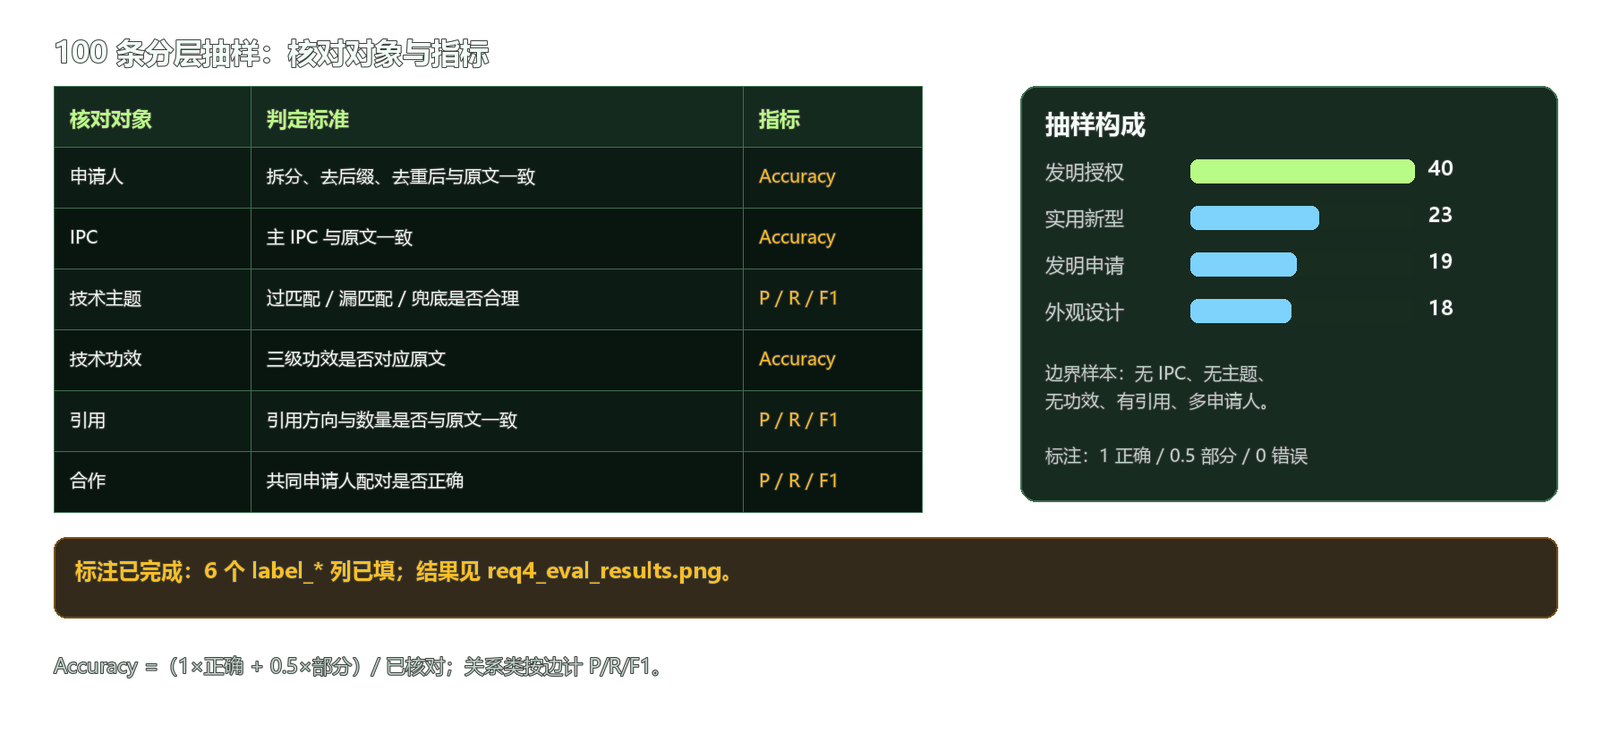
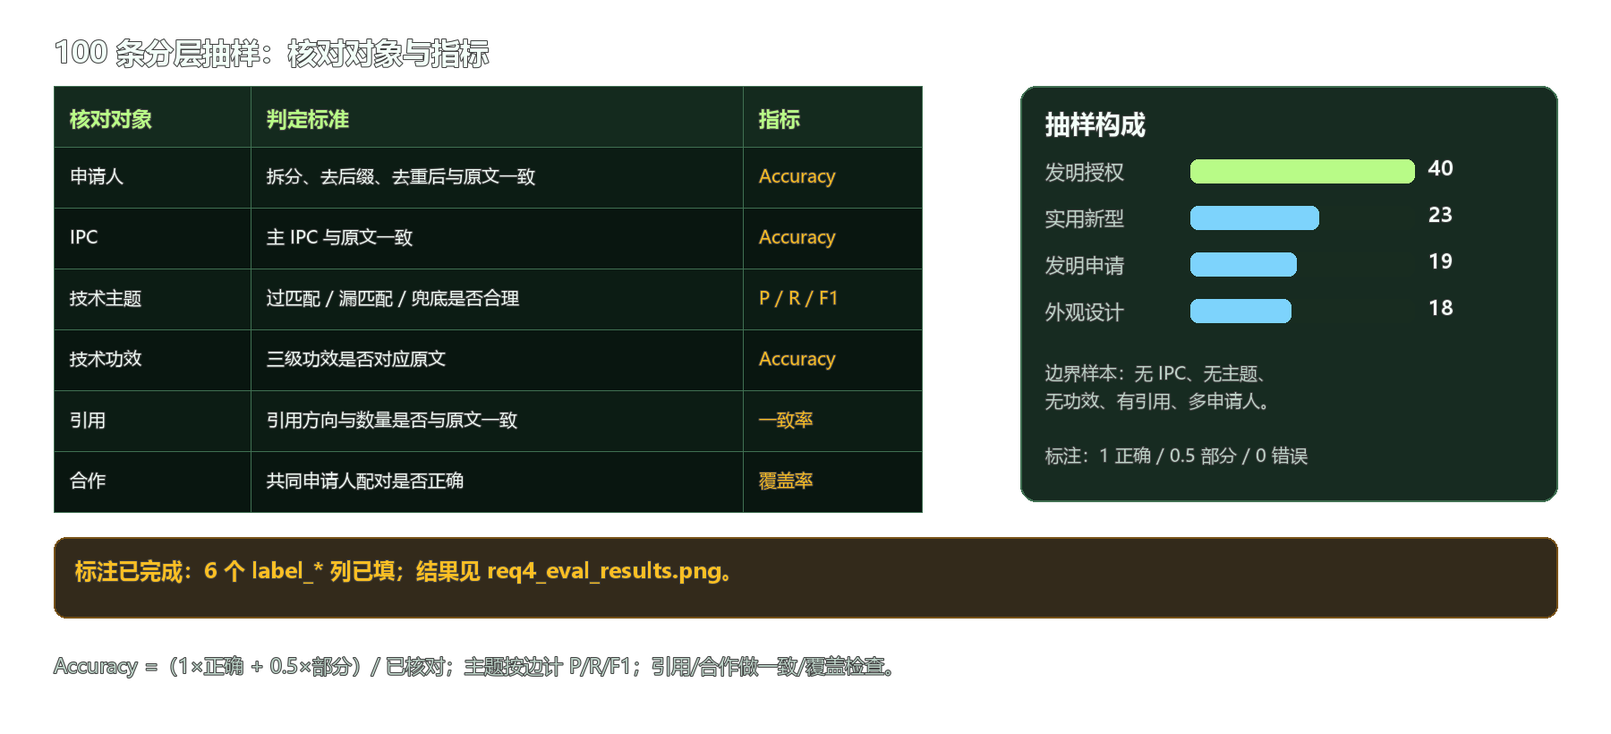
修改抽样

Changed region(s): [[0.28, 0.8841, 0.56, 0.9451], [0.4667, 0.6402, 0.5289, 0.6707], [0.4667, 0.5488, 0.5289, 0.5793]]

diff --git a/_tools/make_req_outline_images.py b/_tools/make_req_outline_images.py
@@ -411,7 +411,7 @@ def extraction_fusion():
 
 
 def eval_results():
-    W, H = 1800, 760
+    W, H = 1800, 800
     image = Image.new("RGBA", (W, H), (0, 0, 0, 0))
     draw = ImageDraw.Draw(image)
     text(draw, (60, 36), "100 条人工核对结果", 34, INK, bold=True)
@@ -421,7 +421,7 @@ def eval_results():
         ("申请人", 1.0, "100%"),
         ("IPC", 1.0, "100%"),
         ("技术功效", 1.0, "100%"),
-        ("引用", 1.0, "100%"),
+        ("引用（一致性）", 1.0, "100%"),
         ("合作（n=9）", 1.0, "100%"),
         ("技术主题", 0.675, "67.5%"),
     ]
@@ -454,13 +454,19 @@ def eval_results():
          "主要问题：兜底过粗、宽泛词误命中、\n空主题漏检；见 notes 列。",
          21, MUTED, spacing=7)
     text(draw, (1060, 500),
-         "引用边：418 / 418，P = R = F1 = 1.00",
+         "主题 P/R/F1（micro）= 61.1 / 61.7 / 61.4",
          22, GREEN, bold=True)
-    text(draw, (1060, 542),
-         "合作仅 9 条多申请人专利进入分母；\n91 条单申请人无共同申请对。",
-         21, MUTED, spacing=7)
+    text(draw, (1060, 540),
+         "领域 P/R/F1（micro）= 66.7 / 68.1 / 67.4",
+         22, GREEN, bold=True)
+    text(draw, (1060, 586),
+         "引用 418/418 一致；结构化字段\n只做一致性检查，不计算 P/R/F1。",
+         20, MUTED, spacing=6)
+    text(draw, (1060, 650),
+         "合作：9 条多申请人全部覆盖；\n91 条单申请人无共同申请对。",
+         20, MUTED, spacing=6)
 
-    text(draw, (60, 680),
+    text(draw, (60, 728),
          "结论：结构化字段抽样未发现错误；主题规则需继续补充词典与负向规则。",
          23, MUTED)
     save_pair(image, "req4_eval_results")
@@ -487,8 +493,8 @@ def eval_framework():
         ("IPC", "主 IPC 与原文一致", "Accuracy"),
         ("技术主题", "过匹配 / 漏匹配 / 兜底是否合理", "P / R / F1"),
         ("技术功效", "三级功效是否对应原文", "Accuracy"),
-        ("引用", "引用方向与数量是否与原文一致", "P / R / F1"),
-        ("合作", "共同申请人配对是否正确", "P / R / F1"),
+        ("引用", "引用方向与数量是否与原文一致", "一致率"),
+        ("合作", "共同申请人配对是否正确", "覆盖率"),
     ]
     y = table_y + row_h
     for i, (obj, rule, metric) in enumerate(rows):
@@ -521,7 +527,7 @@ def eval_framework():
          "标注已完成：6 个 label_* 列已填；结果见 req4_eval_results.png。",
          24, AMBER, bold=True)
     text(draw, (60, 728),
-         "Accuracy =（1×正确 + 0.5×部分）/ 已核对；关系类按边计 P/R/F1。",
+         "Accuracy =（1×正确 + 0.5×部分）/ 已核对；主题按边计 P/R/F1；引用/合作做一致/覆盖检查。",
          22, MUTED)
     save_pair(image, "req4_eval_framework")
 

diff --git a/交付给同伴的内容/P1-9_文档与交接/P1_PPT大纲.md b/交付给同伴的内容/P1-9_文档与交接/P1_PPT大纲.md
@@ -240,7 +240,7 @@
 
 ![人工核对结果](assets/req4_eval_results.png)
 
-> 图注：100 条分层抽样的字段准确率与技术主题标注分布。透明底版本：`assets/req4_eval_results_alpha.png`。
+> 图注：100 条分层抽样的字段准确率、技术主题标注分布与主题 P/R/F1。透明底版本：`assets/req4_eval_results_alpha.png`。
 
 抽样设计：
 
@@ -255,13 +255,15 @@
 | 申请人 | 100 | 100 | 0 | 0 | **100%** |
 | IPC | 100 | 100 | 0 | 0 | **100%** |
 | 技术功效 | 100 | 100 | 0 | 0 | **100%** |
-| 引用 | 100 | 100 | 0 | 0 | **100%** |
+| 引用（一致性） | 100 | 100 | 0 | 0 | **100%** |
 | 技术主题 | 100 | 50 | 35 | 15 | **67.5%** |
 | 合作 | 9（多申请人） | 9 | 0 | 0 | **100%** |
 
 需要说明的口径：
 
-- **引用边按边核对**：100 条专利共 418 条预测引用边、418 条原文引用边，命中 418 条；Precision = Recall = F1 = **1.00**。
+- **引用是结构化抽取**：100 条专利共 418 条预测引用边、418 条原文引用边，418 条完全一致。这里只做一致性检查，**不计算 P/R/F1**；否则会把“字段搬运”误当成模型预测。
+- **P/R/F1 用在技术主题**：预测主题集合与人工参考主题集合按边比较，micro 结果为 TP 66、FP 42、FN 41，**Precision 61.11% / Recall 61.68% / F1 61.40%**；技术领域 micro 为 **66.67% / 68.13% / 67.39%**。参考主题逐条记录在 `manual_sample_100_topic_eval.csv`。
+- **P/R/F1 与准确率不是同一口径**：P/R/F1 采用精确匹配，`（未细分）` 与细粒度主题不互相算对；`0.5` 的“部分正确”只用于准确率，不进入 P/R/F1。所以主题 F1 61.40% 低于按半分计的准确率 67.5%。
 - **合作字段分母是 9**：100 条中只有 9 条多申请人专利存在共同申请对；其余 91 条是单申请人，不进入合作准确率分母。`coop_partners` 是申请人网络伙伴集合，本项核对的是“本专利共同申请人是否被覆盖”。
 - **技术主题是主要误差来源**：100 条准确率 67.5%；剔除 18 条外观设计（无主题，按正确计）后，82 条非外观设计为 **60.4%**，其中完全正确 32 条、部分正确 35 条、错误 15 条。
 - **结构化字段 100% 的边界**：申请人、IPC、功效、引用、合作都由同一清洗/抽取链路直接生成，100 条抽样没有发现结构化错误；这不等于全量无错，也不能外推为主题抽取也准确。
@@ -277,7 +279,7 @@
 
 ## 讲稿（约 80 秒）
 
-> “第三页是知识抽取与融合。实体识别采用结构化字段加规则词典：专利、申请人、IPC 从原始字段直接映射；技术主题用 40 条关键词规则匹配标题、摘要和功效，最多取 3 个；技术领域按 IPC 部/大类映射。关系抽取覆盖 6 类关系：申请、引用、IPC、主题、领域和共同申请；引用先做 kind code 归一，只保留样本内引用方，外部被引不建占位节点。属性抽取保留专利的 10 个属性和功效的三级结构，源表没有的属性留空，不伪造。融合阶段做了 393 条展示层别名，覆盖 9,151 件专利，合并后 27,190 个企业主体；Kia 和 Hyundai 明确不合并，中国南方标为待核。最后是 100 条人工核对：申请人、IPC、功效、引用都是 100%，引用 418 条边按边核对 P、R、F1 都是 1.00；合作只在 9 条多申请人专利上核对，9 条全部覆盖；技术主题是主要误差来源，准确率 67.5%，剔除外观设计后非外观设计是 60.4%，主要问题是兜底过粗、宽泛词误命中和空主题漏检。这个结果说明结构化字段可靠，主题词典还需要继续补。
+> “第三页是知识抽取与融合。实体识别采用结构化字段加规则词典：专利、申请人、IPC 从原始字段直接映射；技术主题用 40 条关键词规则匹配标题、摘要和功效，最多取 3 个；技术领域按 IPC 部/大类映射。关系抽取覆盖 6 类关系：申请、引用、IPC、主题、领域和共同申请；引用先做 kind code 归一，只保留样本内引用方，外部被引不建占位节点。属性抽取保留专利的 10 个属性和功效的三级结构，源表没有的属性留空，不伪造。融合阶段做了 393 条展示层别名，覆盖 9,151 件专利，合并后 27,190 个企业主体；Kia 和 Hyundai 明确不合并，中国南方标为待核。最后是 100 条人工核对：申请人、IPC、功效、引用都是结构化字段，抽样 100% 一致，引用 418/418 条边一致；P/R/F1 只用于技术主题，精确匹配下 P 61.1%、R 61.7%、F1 61.4%，领域级 F1 67.4%；合作只在 9 条多申请人专利上核对，9 条全部覆盖；主题按半分计准确率 67.5%，非外观设计 60.4%，主要问题是兜底过粗、宽泛词误命中和空主题漏检。这个结果说明结构化字段可靠，主题词典还需要继续补。
 
 ---
 
@@ -317,7 +319,7 @@
 ## 已完成
 
 - **100 条人工标注与结果**：`交付给同伴的内容/P1-8_质量与别名/manual_sample_100.csv` 已填 6 个 `label_*` 列和 `notes`；结果见同目录 `manual_sample_100.md`，指标文件 `data/results/manual_sample_100_metrics.json`。
-- 结果：申请人、IPC、技术功效、引用均 100%；技术主题 67.5%（非外观设计 60.4%）；合作 9/9 多申请人专利覆盖；引用 418 条边 P/R/F1 = 1.00。
+- 结果：申请人、IPC、技术功效、引用均 100%；引用 418/418 条边一致（结构化，不计算 P/R/F1）；技术主题 P=61.11%、R=61.68%、F1=61.40%，领域 F1=67.39%；合作 9/9 多申请人专利覆盖。
 - 第 3 页已换成结果图 `assets/req4_eval_results.png`。
 
 ## 建议补（不影响主讲述）

diff --git a/docs/挑战与解决.md b/docs/挑战与解决.md
@@ -16,7 +16,7 @@
 | C7 | 页面开发要用样例，统计结论要用全量；两套数据容易混 | 页面可能把样例数字当全量，或指标版本不一致 | 样例与全量同名同列；`USE_SAMPLE` 切换；样例/全量结果目录隔离；`load_result` 校验 scope、行数、SHA-256 | 481 件样例；样例 366 家/295 行，全量 27,557 家/1,293 行；不静默回退 |
 | C8 | Neo4j Desktop 数据目录默认在 C 盘；旧图与新结构可能混用 | C 盘空间不足；重复建边；旧约束冲突 | 数据目录改到 `D:\Neo4jData`；导入前检查非空图，重建必须 `--reset`；先建 5 个约束、2 个索引；导入后逐项核对计数 | 147,174 节点 / 571,663 关系；计数与 parquet 一致 |
 | C9 | Schema 从 V1 到 V4 迭代，边属性、样本标记、别名表逐步加入 | 下游查询可能按旧结构写，导致返工 | 结构版本化；七张表与图结构同步；边属性 `is_first`/`is_main`/`weight`、节点属性 `is_in_sample` 写清；辅助表不混入核心结构 | 5 类节点、6 类关系；34/34 结构校验通过 |
-| C10 | 100 条人工核对没有现成标签，主题判断有主观性 | 无法直接报告准确率；容易只报好数字 | 分层抽样；`1/0.5/0` 三档；`notes` 写原因；字段级准确率；引用按边算 P/R/F1；合作只统计多申请人样本 | 100 条完成；主题 67.5%；引用 418 条边 P/R/F1=1.00；合作 9/9 |
+| C10 | 100 条人工核对没有现成标签，主题判断有主观性 | 无法直接报告准确率；容易只报好数字 | 分层抽样；`1/0.5/0` 三档；`notes` 写原因；字段级准确率；P/R/F1 用于技术主题；引用只做一致性检查；合作只统计多申请人样本 | 100 条完成；主题 67.5%；主题 P/R/F1=61.1/61.7/61.4；引用 418/418 一致；合作 9/9 |
 | C11 | 5 人并行开发，接口多、时间只有两天 | 容易出现“一个人等另一个人”的返工 | 垂直切片、单一所有权；先冻结表结构和读取接口；T0 交付样例数据；文档写清字段和边界 | P2/P3 可先用样例独立开发，不等全量图 |
 
 ## 二、逐项说明
@@ -80,7 +80,7 @@
 - 企业级引用另做 `company_citation_pairs.parquet`（135,007 个主体对），标明是“引用集合里出现过”的聚合，不是精确专利边。
 - 依赖分析加覆盖率标签；`C_A < 30` 时只展示数值，不做单点依赖判断。
 
-**结果**：图谱里的引用边可追溯、不掺假；依赖分析能用，但必须带“基于 X 件引用专利 / Y 个主体”的说明。这是“用辅助表管理不完整”，不是“把外部引用补全”。
+**结果**：图谱里的引用边可追溯、不掺假；依赖分析能用，但必须带“基于 X 件引用专利 / Y 个主体”的说明。这是“用辅助表管理不完整”，不是“把外部引用补全”。引用是结构化抽取，不做 P/R/F1；P/R/F1 放在技术主题上。
 
 ### C5 主题规则误差：把 `（未细分）` 单列，用 100 条量化
 
@@ -96,7 +96,7 @@
 - 100 条分层抽样逐条核对，`notes` 记录原因；错误类型分成“兜底过粗、宽泛词误命中、空主题漏检、部分正确”。
 - 没有为了追求指标重跑词典，避免破坏已交付的样例和图谱；把改进建议写进文档。
 
-**结果**：主题覆盖 82.35%；主题准确率 67.5%（非外观设计 60.4%）；错误类型可解释，后续可以按负向规则和词典继续改。
+**结果**：主题覆盖 82.35%；主题准确率 67.5%（非外观设计 60.4%）；主题 micro P/R/F1=61.11%/61.68%/61.40%，领域级 F1=67.39%；错误类型可解释，后续可以按负向规则和词典继续改。
 
 ### C6 企业别名：只做展示层，不硬并
 
@@ -170,10 +170,10 @@
 - 分层抽 100 条：发明授权 40、实用新型 23、发明申请 19、外观设计 18；覆盖无 IPC、无主题、无功效、有引用、多申请人。
 - 每条按 `1`（正确）、`0.5`（部分正确）、`0`（错误）标注，`notes` 写原因。
 - 字段级准确率按 `(1×正确 + 0.5×部分) / 已核对条数`。
-- 引用按边核对 P/R/F1；合作只统计 9 条多申请人专利，91 条单申请人无共同申请对，不进入分母。
+- 引用是结构化抽取，只做 418/418 一致性检查，不计算 P/R/F1；P/R/F1 用于技术主题（micro 与领域级）；合作只统计 9 条多申请人专利，91 条单申请人无共同申请对，不进入分母。
 - 明确说明：申请人、IPC、功效、引用、合作都由同一清洗/抽取链路直接生成，100% 只代表“抽样没发现结构化错误”，不代表全量无错，也不能外推为主题准确率。
 
-**结果**：申请人、IPC、功效、引用 100%；主题 67.5%（非外观设计 60.4%）；引用 418 条边 P/R/F1=1.00；合作 9/9。主题错误类型和改进方向写进 `manual_sample_100.md`。
+**结果**：申请人、IPC、功效、引用 100%；主题 67.5%（非外观设计 60.4%）；主题 P/R/F1=61.11%/61.68%/61.40%，领域级 F1=67.39%；引用 418/418 一致；合作 9/9。主题错误类型和改进方向写进 `manual_sample_100.md`。
 
 ### C11 5 人并行：先给框架，再各自开发
 

diff --git a/交付给同伴的内容/P1-9_文档与交接/挑战与解决.md b/交付给同伴的内容/P1-9_文档与交接/挑战与解决.md
@@ -16,7 +16,7 @@
 | C7 | 页面开发要用样例，统计结论要用全量；两套数据容易混 | 页面可能把样例数字当全量，或指标版本不一致 | 样例与全量同名同列；`USE_SAMPLE` 切换；样例/全量结果目录隔离；`load_result` 校验 scope、行数、SHA-256 | 481 件样例；样例 366 家/295 行，全量 27,557 家/1,293 行；不静默回退 |
 | C8 | Neo4j Desktop 数据目录默认在 C 盘；旧图与新结构可能混用 | C 盘空间不足；重复建边；旧约束冲突 | 数据目录改到 `D:\Neo4jData`；导入前检查非空图，重建必须 `--reset`；先建 5 个约束、2 个索引；导入后逐项核对计数 | 147,174 节点 / 571,663 关系；计数与 parquet 一致 |
 | C9 | Schema 从 V1 到 V4 迭代，边属性、样本标记、别名表逐步加入 | 下游查询可能按旧结构写，导致返工 | 结构版本化；七张表与图结构同步；边属性 `is_first`/`is_main`/`weight`、节点属性 `is_in_sample` 写清；辅助表不混入核心结构 | 5 类节点、6 类关系；34/34 结构校验通过 |
-| C10 | 100 条人工核对没有现成标签，主题判断有主观性 | 无法直接报告准确率；容易只报好数字 | 分层抽样；`1/0.5/0` 三档；`notes` 写原因；字段级准确率；引用按边算 P/R/F1；合作只统计多申请人样本 | 100 条完成；主题 67.5%；引用 418 条边 P/R/F1=1.00；合作 9/9 |
+| C10 | 100 条人工核对没有现成标签，主题判断有主观性 | 无法直接报告准确率；容易只报好数字 | 分层抽样；`1/0.5/0` 三档；`notes` 写原因；字段级准确率；P/R/F1 用于技术主题；引用只做一致性检查；合作只统计多申请人样本 | 100 条完成；主题 67.5%；主题 P/R/F1=61.1/61.7/61.4；引用 418/418 一致；合作 9/9 |
 | C11 | 5 人并行开发，接口多、时间只有两天 | 容易出现“一个人等另一个人”的返工 | 垂直切片、单一所有权；先冻结表结构和读取接口；T0 交付样例数据；文档写清字段和边界 | P2/P3 可先用样例独立开发，不等全量图 |
 
 ## 二、逐项说明
@@ -80,7 +80,7 @@
 - 企业级引用另做 `company_citation_pairs.parquet`（135,007 个主体对），标明是“引用集合里出现过”的聚合，不是精确专利边。
 - 依赖分析加覆盖率标签；`C_A < 30` 时只展示数值，不做单点依赖判断。
 
-**结果**：图谱里的引用边可追溯、不掺假；依赖分析能用，但必须带“基于 X 件引用专利 / Y 个主体”的说明。这是“用辅助表管理不完整”，不是“把外部引用补全”。
+**结果**：图谱里的引用边可追溯、不掺假；依赖分析能用，但必须带“基于 X 件引用专利 / Y 个主体”的说明。这是“用辅助表管理不完整”，不是“把外部引用补全”。引用是结构化抽取，不做 P/R/F1；P/R/F1 放在技术主题上。
 
 ### C5 主题规则误差：把 `（未细分）` 单列，用 100 条量化
 
@@ -96,7 +96,7 @@
 - 100 条分层抽样逐条核对，`notes` 记录原因；错误类型分成“兜底过粗、宽泛词误命中、空主题漏检、部分正确”。
 - 没有为了追求指标重跑词典，避免破坏已交付的样例和图谱；把改进建议写进文档。
 
-**结果**：主题覆盖 82.35%；主题准确率 67.5%（非外观设计 60.4%）；错误类型可解释，后续可以按负向规则和词典继续改。
+**结果**：主题覆盖 82.35%；主题准确率 67.5%（非外观设计 60.4%）；主题 micro P/R/F1=61.11%/61.68%/61.40%，领域级 F1=67.39%；错误类型可解释，后续可以按负向规则和词典继续改。
 
 ### C6 企业别名：只做展示层，不硬并
 
@@ -170,10 +170,10 @@
 - 分层抽 100 条：发明授权 40、实用新型 23、发明申请 19、外观设计 18；覆盖无 IPC、无主题、无功效、有引用、多申请人。
 - 每条按 `1`（正确）、`0.5`（部分正确）、`0`（错误）标注，`notes` 写原因。
 - 字段级准确率按 `(1×正确 + 0.5×部分) / 已核对条数`。
-- 引用按边核对 P/R/F1；合作只统计 9 条多申请人专利，91 条单申请人无共同申请对，不进入分母。
+- 引用是结构化抽取，只做 418/418 一致性检查，不计算 P/R/F1；P/R/F1 用于技术主题（micro 与领域级）；合作只统计 9 条多申请人专利，91 条单申请人无共同申请对，不进入分母。
 - 明确说明：申请人、IPC、功效、引用、合作都由同一清洗/抽取链路直接生成，100% 只代表“抽样没发现结构化错误”，不代表全量无错，也不能外推为主题准确率。
 
-**结果**：申请人、IPC、功效、引用 100%；主题 67.5%（非外观设计 60.4%）；引用 418 条边 P/R/F1=1.00；合作 9/9。主题错误类型和改进方向写进 `manual_sample_100.md`。
+**结果**：申请人、IPC、功效、引用 100%；主题 67.5%（非外观设计 60.4%）；主题 P/R/F1=61.11%/61.68%/61.40%，领域级 F1=67.39%；引用 418/418 一致；合作 9/9。主题错误类型和改进方向写进 `manual_sample_100.md`。
 
 ### C11 5 人并行：先给框架，再各自开发
 

diff --git a/data/results/manual_sample_100.md b/data/results/manual_sample_100.md
@@ -2,7 +2,7 @@
 
 生成时间：2026-11-25；标注完成：2026-11-26
 文件：`manual_sample_100.csv`；随机种子 `20261125`。
-指标文件：`data/results/manual_sample_100_metrics.json`。
+指标文件：`data/results/manual_sample_100_metrics.json`；主题参考集合：`manual_sample_100_topic_eval.csv`。
 
 ## 1. 抽样
 
@@ -38,13 +38,22 @@
 | 申请人 | 100 | 100 | 0 | 0 | **100%** |
 | IPC | 100 | 100 | 0 | 0 | **100%** |
 | 技术功效 | 100 | 100 | 0 | 0 | **100%** |
-| 引用 | 100 | 100 | 0 | 0 | **100%** |
+| 引用（一致性） | 100 | 100 | 0 | 0 | **100%** |
 | 技术主题 | 100 | 50 | 35 | 15 | **67.5%** |
 | 合作 | 9（多申请人） | 9 | 0 | 0 | **100%** |
 
-补充说明：
+指标口径：
 
-- **引用边按边核对**：100 条专利共 418 条预测引用边、418 条原文引用边，命中 418 条；Precision = Recall = F1 = **1.00**。
+- **引用是结构化抽取**：100 条专利共 418 条预测引用边、418 条原文引用边，418 条完全一致。这里只做一致性检查，**不计算 P/R/F1**；否则会把“字段搬运”误当成模型预测。
+- **P/R/F1 用在技术主题**：把每条专利的预测主题集合与人工参考主题集合按边比较，得到 micro P/R/F1：
+
+| 层级 | TP | FP | FN | Precision | Recall | F1 |
+|---|---:|---:|---:|---:|---:|---:|
+| 技术主题（micro） | 66 | 42 | 41 | **61.11%** | **61.68%** | **61.40%** |
+| 技术领域（micro） | 62 | 31 | 29 | **66.67%** | **68.13%** | **67.39%** |
+
+- 参考主题集合逐条记录在 `manual_sample_100_topic_eval.csv`，字段为 `predicted_topics` / `reference_topics` / `tp` / `fp` / `fn`；技术领域由 `topic_quality.csv` 的 topic→domain 映射得到。micro 指把所有专利的主题边合并后统计，不是逐条平均。
+- P/R/F1 采用**精确匹配**：`（未细分）` 与细粒度主题不互相算对；`0.5` 的“部分正确”只用于准确率，不进入 P/R/F1。因此 F1 61.40% 低于按半分计的准确率 67.5%，两者不是同一个口径。
 - **合作字段分母为 9**：100 条中只有 9 条多申请人专利存在共同申请对；其余 91 条为单申请人，无共同申请对，不进入合作准确率分母。`coop_partners` 是申请人网络伙伴集合，用于检查本专利共同申请人是否被覆盖，不是单专利的共同申请人集合。
 - **技术主题准确率**：100 条为 67.5%；剔除 18 条外观设计（无主题，按正确计）后，82 条非外观设计为 **60.4%**，其中完全正确 32 条、部分正确 35 条、错误 15 条。
 - **结构化字段 100% 的边界**：申请人、IPC、功效、引用、合作都是由同一清洗/抽取链路直接生成，100 条抽样没有发现结构化错误；这不等于全量无错，也不能外推为“主题抽取也准确”。

diff --git a/交付给同伴的内容/P1-8_质量与别名/manual_sample_100.md b/交付给同伴的内容/P1-8_质量与别名/manual_sample_100.md
@@ -2,7 +2,7 @@
 
 生成时间：2026-11-25；标注完成：2026-11-26
 文件：`manual_sample_100.csv`；随机种子 `20261125`。
-指标文件：`data/results/manual_sample_100_metrics.json`。
+指标文件：`data/results/manual_sample_100_metrics.json`；主题参考集合：`manual_sample_100_topic_eval.csv`。
 
 ## 1. 抽样
 
@@ -38,13 +38,22 @@
 | 申请人 | 100 | 100 | 0 | 0 | **100%** |
 | IPC | 100 | 100 | 0 | 0 | **100%** |
 | 技术功效 | 100 | 100 | 0 | 0 | **100%** |
-| 引用 | 100 | 100 | 0 | 0 | **100%** |
+| 引用（一致性） | 100 | 100 | 0 | 0 | **100%** |
 | 技术主题 | 100 | 50 | 35 | 15 | **67.5%** |
 | 合作 | 9（多申请人） | 9 | 0 | 0 | **100%** |
 
-补充说明：
+指标口径：
 
-- **引用边按边核对**：100 条专利共 418 条预测引用边、418 条原文引用边，命中 418 条；Precision = Recall = F1 = **1.00**。
+- **引用是结构化抽取**：100 条专利共 418 条预测引用边、418 条原文引用边，418 条完全一致。这里只做一致性检查，**不计算 P/R/F1**；否则会把“字段搬运”误当成模型预测。
+- **P/R/F1 用在技术主题**：把每条专利的预测主题集合与人工参考主题集合按边比较，得到 micro P/R/F1：
+
+| 层级 | TP | FP | FN | Precision | Recall | F1 |
+|---|---:|---:|---:|---:|---:|---:|
+| 技术主题（micro） | 66 | 42 | 41 | **61.11%** | **61.68%** | **61.40%** |
+| 技术领域（micro） | 62 | 31 | 29 | **66.67%** | **68.13%** | **67.39%** |
+
+- 参考主题集合逐条记录在 `manual_sample_100_topic_eval.csv`，字段为 `predicted_topics` / `reference_topics` / `tp` / `fp` / `fn`；技术领域由 `topic_quality.csv` 的 topic→domain 映射得到。micro 指把所有专利的主题边合并后统计，不是逐条平均。
+- P/R/F1 采用**精确匹配**：`（未细分）` 与细粒度主题不互相算对；`0.5` 的“部分正确”只用于准确率，不进入 P/R/F1。因此 F1 61.40% 低于按半分计的准确率 67.5%，两者不是同一个口径。
 - **合作字段分母为 9**：100 条中只有 9 条多申请人专利存在共同申请对；其余 91 条为单申请人，无共同申请对，不进入合作准确率分母。`coop_partners` 是申请人网络伙伴集合，用于检查本专利共同申请人是否被覆盖，不是单专利的共同申请人集合。
 - **技术主题准确率**：100 条为 67.5%；剔除 18 条外观设计（无主题，按正确计）后，82 条非外观设计为 **60.4%**，其中完全正确 32 条、部分正确 35 条、错误 15 条。
 - **结构化字段 100% 的边界**：申请人、IPC、功效、引用、合作都是由同一清洗/抽取链路直接生成，100 条抽样没有发现结构化错误；这不等于全量无错，也不能外推为“主题抽取也准确”。

diff --git a/docs/handoff.md b/docs/handoff.md
@@ -65,6 +65,7 @@ rows = run_query("MATCH (p:Patent) RETURN count(p) AS n")
 | `company_citation_summary.json` | — | H1 覆盖、Top 主体对 |
 | `manual_sample_100.csv` | 100 行 | 人工抽样核对结果；标签已填 |
 | `manual_sample_100.md` | — | 抽样、标注结果与 P/R/F1 说明 |
+| `manual_sample_100_topic_eval.csv` | 100 行 | 主题预测/参考集合、TP/FP/FN 与逐条 P/R/F1 |
 | `topic_quality.csv` | 50 主题 | 主题计数、`（未细分）` 标记 |
 | `company_metrics.parquet` | 样例 366 / 全量 27,557 行 | P2/P3 预计算企业指标；`load_result` 读取 |
 | `topic_year.parquet` | 样例 295 / 全量 1,293 行 | 主题×年度计数；P2 页面一、P3 趋势 |
@@ -123,7 +124,7 @@ rows = run_query("MATCH (p:Patent) RETURN count(p) AS n")
 
 - 结构校验：`data/results/contract_check.json`，34/34 通过；8 个数据缺失警告。
 - 规模/质量：`data/results/scale.json`、`data_quality.json`。
-- 抽样：`manual_sample_100.csv` 100 条，标签列 `label_*` 已填；按 `manual_sample_100.md` 直接引用准确率与 P/R/F1 结果，不重复计算。
+- 抽样：`manual_sample_100.csv` 100 条，标签列 `label_*` 已填；直接采用 `manual_sample_100.md` 的准确率与主题 P/R/F1 结果，不重复计算。
 - 别名：`company_alias.csv` + `alias_summary.json`；H1：`company_citation_pairs.parquet` + `company_citation_summary.json`。
 - 主题：`topic_quality.csv`；`（未细分）` 单列。
 - 一致性：`eval.check_contracts`、`eval.smoke_test` 均可复跑。

diff --git a/交付给同伴的内容/P1-9_文档与交接/handoff.md b/交付给同伴的内容/P1-9_文档与交接/handoff.md
@@ -65,6 +65,7 @@ rows = run_query("MATCH (p:Patent) RETURN count(p) AS n")
 | `company_citation_summary.json` | — | H1 覆盖、Top 主体对 |
 | `manual_sample_100.csv` | 100 行 | 人工抽样核对结果；标签已填 |
 | `manual_sample_100.md` | — | 抽样、标注结果与 P/R/F1 说明 |
+| `manual_sample_100_topic_eval.csv` | 100 行 | 主题预测/参考集合、TP/FP/FN 与逐条 P/R/F1 |
 | `topic_quality.csv` | 50 主题 | 主题计数、`（未细分）` 标记 |
 | `company_metrics.parquet` | 样例 366 / 全量 27,557 行 | P2/P3 预计算企业指标；`load_result` 读取 |
 | `topic_year.parquet` | 样例 295 / 全量 1,293 行 | 主题×年度计数；P2 页面一、P3 趋势 |
@@ -123,7 +124,7 @@ rows = run_query("MATCH (p:Patent) RETURN count(p) AS n")
 
 - 结构校验：`data/results/contract_check.json`，34/34 通过；8 个数据缺失警告。
 - 规模/质量：`data/results/scale.json`、`data_quality.json`。
-- 抽样：`manual_sample_100.csv` 100 条，标签列 `label_*` 已填；按 `manual_sample_100.md` 直接引用准确率与 P/R/F1 结果，不重复计算。
+- 抽样：`manual_sample_100.csv` 100 条，标签列 `label_*` 已填；直接采用 `manual_sample_100.md` 的准确率与主题 P/R/F1 结果，不重复计算。
 - 别名：`company_alias.csv` + `alias_summary.json`；H1：`company_citation_pairs.parquet` + `company_citation_summary.json`。
 - 主题：`topic_quality.csv`；`（未细分）` 单列。
 - 一致性：`eval.check_contracts`、`eval.smoke_test` 均可复跑。

diff --git a/docs/data_profile.md b/docs/data_profile.md
@@ -210,5 +210,5 @@
 - 人工抽样：`manual_sample_100.csv` 100 条，类型 发明授权 40、实用新型 23、发明申请 19、外观设计 18；标签已填，结果见 `manual_sample_100.md`。
 - 预计算指标：`company_metrics` 样例 366 家、全量 27,557 家；`topic_year` 样例 295 行、全量 1,293 行；两份 `metrics_manifest.json` 分别标 `scope=sample/full`，`load_result` 校验行数与 SHA-256。
 - 16 批次：`source_files` 行数见 `data_quality.json`；1,008 行样本显示 14 个批次全为“授权”、2 个批次全为“驳回”，说明批次按法律状态分层导出，不是随机全量。
-- 限制：别名不是完整实体消解；企业级引用是聚合不是精确边；主题宽泛词未重跑词典；100 条抽样待人工 P/R/F1。
+- 限制：别名不是完整实体消解；企业级引用是聚合不是精确边；主题宽泛词未重跑词典；100 条抽样已完成，主题 P/R/F1=61.11%/61.68%/61.40%，领域级 F1=67.39%；引用只做一致性检查。
 - 输出：`data/results/scale.json`、`data_quality.json`、`company_alias.csv`、`cooperation_merged.parquet`、`company_patent_counts.csv`、`company_citation_pairs.parquet`、`manual_sample_100.csv`、`topic_quality.csv`；副本在 `交付给同伴的内容/P1-8_质量与别名/`。

diff --git a/交付给同伴的内容/P1-9_文档与交接/data_profile.md b/交付给同伴的内容/P1-9_文档与交接/data_profile.md
@@ -210,5 +210,5 @@
 - 人工抽样：`manual_sample_100.csv` 100 条，类型 发明授权 40、实用新型 23、发明申请 19、外观设计 18；标签已填，结果见 `manual_sample_100.md`。
 - 预计算指标：`company_metrics` 样例 366 家、全量 27,557 家；`topic_year` 样例 295 行、全量 1,293 行；两份 `metrics_manifest.json` 分别标 `scope=sample/full`，`load_result` 校验行数与 SHA-256。
 - 16 批次：`source_files` 行数见 `data_quality.json`；1,008 行样本显示 14 个批次全为“授权”、2 个批次全为“驳回”，说明批次按法律状态分层导出，不是随机全量。
-- 限制：别名不是完整实体消解；企业级引用是聚合不是精确边；主题宽泛词未重跑词典；100 条抽样待人工 P/R/F1。
+- 限制：别名不是完整实体消解；企业级引用是聚合不是精确边；主题宽泛词未重跑词典；100 条抽样已完成，主题 P/R/F1=61.11%/61.68%/61.40%，领域级 F1=67.39%；引用只做一致性检查。
 - 输出：`data/results/scale.json`、`data_quality.json`、`company_alias.csv`、`cooperation_merged.parquet`、`company_patent_counts.csv`、`company_citation_pairs.parquet`、`manual_sample_100.csv`、`topic_quality.csv`；副本在 `交付给同伴的内容/P1-8_质量与别名/`。

diff --git a/交付给同伴的内容/P1-8_质量与别名/说明.md b/交付给同伴的内容/P1-8_质量与别名/说明.md
@@ -13,6 +13,7 @@
 | `company_citation_summary.json` | H1 覆盖与 Top 企业对 |
 | `manual_sample_100.csv` | 100 条分层抽样核对结果，标签已填 |
 | `manual_sample_100.md` | 抽样、标注结果与 P/R/F1 说明 |
+| `manual_sample_100_topic_eval.csv` | 100 条主题预测/参考集合、TP/FP/FN 与逐条 P/R/F1 |
 | `topic_quality.csv` | 主题计数、领域、是否 `（未细分）`、占技术类专利比例 |
 | `data_quality.json` | 规模、覆盖、缺失、批次、已知问题 |
 | `scale.json` | 图谱计数 + P1-8 数据集统计 |
